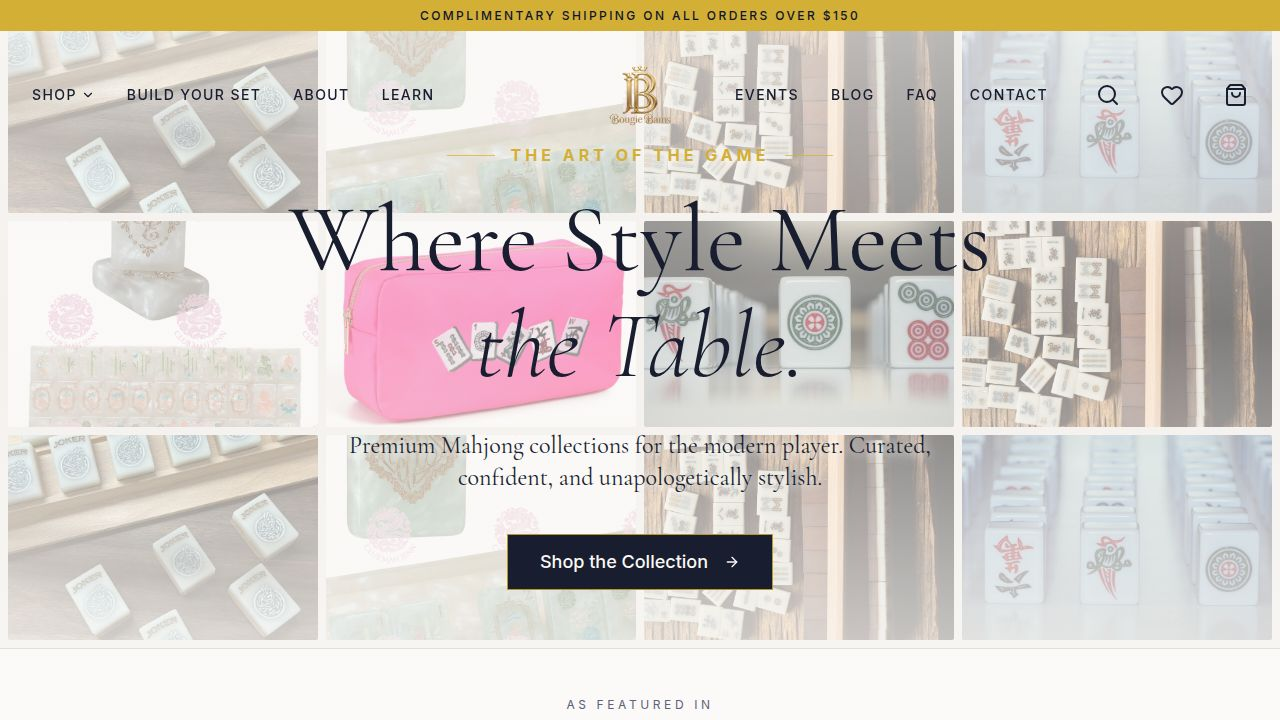
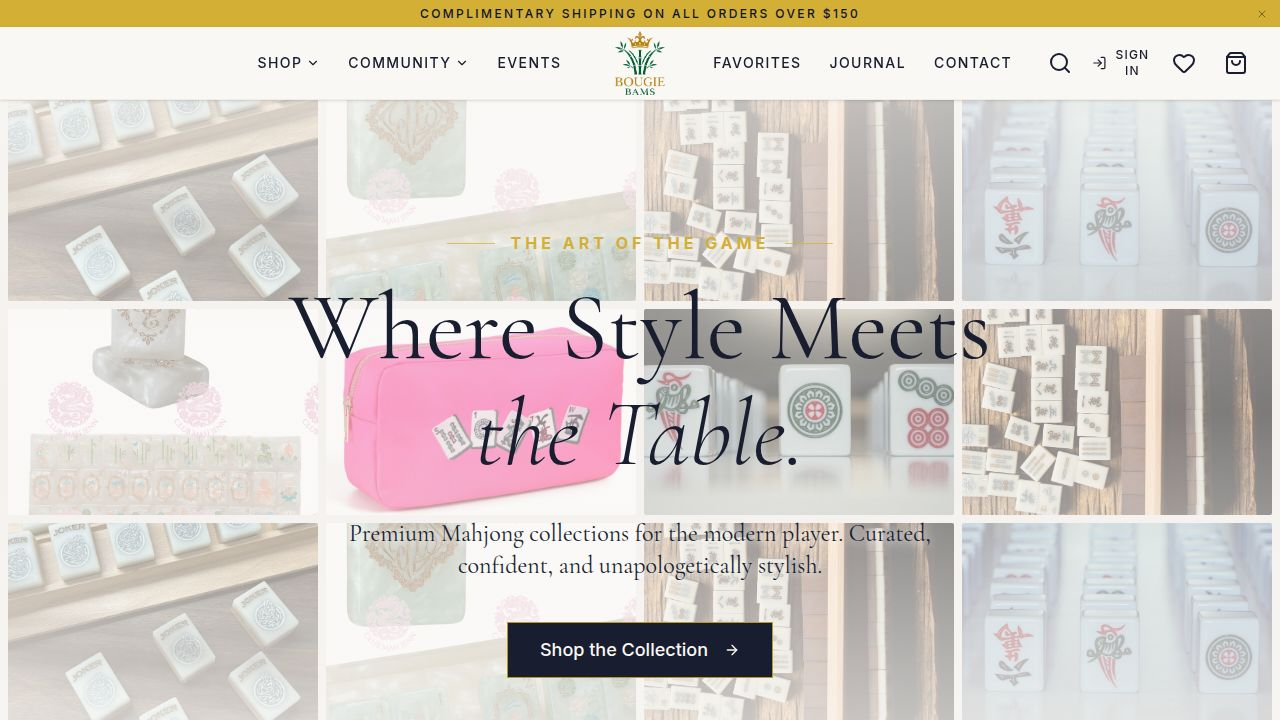
Task #5: Wire up email delivery for contact form and event registrations
## What was done
- Installed `resend` npm package in the api-server artifact
- Created `artifacts/api-server/src/lib/email.ts` — shared email service with two
  exported functions: `sendContactEmail` and `sendRegistrationConfirmationEmail`
- Updated `artifacts/api-server/src/routes/contact.ts` — POST /email/contact now
  calls `sendContactEmail` after a valid submission
- Updated `artifacts/api-server/src/routes/registrations.ts` — POST /registrations
  (free events, direct path) now calls `sendRegistrationConfirmationEmail` after
  the registration is confirmed
- Updated `artifacts/api-server/src/routes/stripe.ts` — two paths now send email:
  1. Free-event path in POST /registrations/checkout (priceCents === 0), immediately
     after status is set to "confirmed"
  2. Paid-event path in POST /webhooks/stripe when checkout.session.completed fires
     and pending → confirmed transition occurs (fetches event data to populate email)

## Email behavior
- Contact form → team inbox (CONTACT_EMAIL) with sender's reply-to, subject, message
- Event registration → registrant's email with event title, date, time, location, host
- If RESEND_API_KEY is not set, emails are skipped with a WARN log (graceful fallback)

## Secrets configured
- RESEND_API_KEY — Resend API key for email delivery
- FROM_EMAIL — sender address (must be on a Resend-verified domain)
- CONTACT_EMAIL — team inbox where contact form messages are delivered

## Notes
[…]

diff --git a/artifacts/api-server/src/lib/email.ts b/artifacts/api-server/src/lib/email.ts
@@ -1,0 +1,89 @@
+import { Resend } from "resend";
+import { logger } from "./logger";
+
+const RESEND_API_KEY = process.env.RESEND_API_KEY;
+const FROM_EMAIL = process.env.FROM_EMAIL ?? "[email redacted]";
+const CONTACT_EMAIL = process.env.CONTACT_EMAIL ?? "[email redacted]";
+
+function getClient(): Resend | null {
+  if (!RESEND_API_KEY) {
+    logger.warn("RESEND_API_KEY is not set — email delivery is disabled");
+    return null;
+  }
+  return new Resend(RESEND_API_KEY);
+}
+
+export async function sendContactEmail(opts: {
+  name: string;
+  email: string;
+  subject: string;
+  message: string;
+}): Promise<void> {
+  const client = getClient();
+  if (!client) return;
+
+  const { name, email, subject, message } = opts;
+
+  const { error } = await client.emails.send({
+    from: FROM_EMAIL,
+    to: [CONTACT_EMAIL],
+    replyTo: email,
+    subject: `[Contact] ${subject}`,
+    html: `
+      <h2>New contact message from ${name}</h2>
+      <p><strong>From:</strong> ${name} &lt;${email}&gt;</p>
+      <p><strong>Subject:</strong> ${subject}</p>
+      <hr />
+      <p style="white-space:pre-wrap">${message.replace(/&/g, "&amp;").replace(/</g, "&lt;").replace(/>/g, "&gt;")}</p>
+    `,
+    text: `New contact message from ${name} <${email}>\nSubject: ${subject}\n\n${message}`,
+  });
+
+  if (error) {
+    logger.error({ error }, "Failed to send contact email");
+  } else {
+    logger.info({ to: CONTACT_EMAIL, from: email }, "Contact email sent");
+  }
+}
+
+export async function sendRegistrationConfirmationEmail(opts: {
+  registrantName: string;
+  registrantEmail: string;
+  eventTitle: string;
+  eventDate: string;
+  eventTime: string;
+  eventLocation: string;
+  eventHost: string;
+}): Promise<void> {
+  const client = getClient();
+  if (!client) return;
+
+  const { registrantName, registrantEmail, eventTitle, eventDate, eventTime, eventLocation, eventHost } = opts;
+
+  const { error } = await client.emails.send({
+    from: FROM_EMAIL,
+    to: [registrantEmail],
+    replyTo: CONTACT_EMAIL,
+    subject: `You're registered for ${eventTitle}!`,
+    html: `
+      <h2>You're registered! 🎉</h2>
+      <p>Hi ${registrantName},</p>
+      <p>Your spot is confirmed for <strong>${eventTitle}</strong>.</p>
+      <table style="border-collapse:collapse;margin:16px 0">
+        <tr><td style="padding:4px 12px 4px 0;color:#666">Date</td><td style="padding:4px 0"><strong>${eventDate}</strong></td></tr>
+        <tr><td style="padding:4px 12px 4px 0;color:#666">Time</td><td style="padding:4px 0"><strong>${eventTime}</strong></td></tr>
+        <tr><td style="padding:4px 12px 4px 0;color:#666">Location</td><td style="padding:4px 0"><strong>${eventLocation}</strong></td></tr>
+        <tr><td style="padding:4px 12px 4px 0;color:#666">Host</td><td style="padding:4px 0"><strong>${eventHost}</strong></td></tr>
+      </table>
+      <p>If you have any questions, reply to this email or reach us at <a href="mailto:${CONTACT_EMAIL}">${CONTACT_EMAIL}</a>.</p>
+      <p>See you there!<br/>— The BougieBams Team</p>
+    `,
+    text: `Hi ${registrantName},\n\nYour spot is confirmed for ${eventTitle}.\n\nDate: ${eventDate}\nTime: ${eventTime}\nLocation: ${eventLocation}\nHost: ${eventHost}\n\nQuestions? Email us at ${CONTACT_EMAIL}.\n\nSee you there!\n— The BougieBams Team`,
+  });
+
+  if (error) {
+    logger.error({ error, to: registrantEmail }, "Failed to send registration confirmation email");
+  } else {
+    logger.info({ to: registrantEmail, event: eventTitle }, "Registration confirmation email sent");
+  }
+}

diff --git a/artifacts/api-server/src/routes/stripe.ts b/artifacts/api-server/src/routes/stripe.ts
@@ -4,6 +4,7 @@ import { sql, eq } from "drizzle-orm";
 import { db, eventsTable, registrationsTable } from "@workspace/db";
 import { logger } from "../lib/logger";
 import { requireAuth } from "../middleware/auth";
+import { sendRegistrationConfirmationEmail } from "../lib/email";
 
 const router: IRouter = Router();
 
@@ -114,6 +115,16 @@ router.post(
           .set({ spotsLeft: sql`GREATEST(0, ${eventsTable.spotsLeft} - 1)` })
           .where(eq(eventsTable.id, eventId));
 
+        await sendRegistrationConfirmationEmail({
+          registrantName: name,
+          registrantEmail: email,
+          eventTitle: event.title,
+          eventDate: event.date,
+          eventTime: event.time,
+          eventLocation: event.location,
+          eventHost: event.host,
+        });
+
         res.json({ url: `${origin}/events?registration=success` });
       }
     } catch (err) {
@@ -174,10 +185,28 @@ router.post(
             .set({ status: "confirmed", paymentSessionId: session.id })
             .where(eq(registrationsTable.id, registrationId));
 
+          const [event] = await db
+            .select()
+            .from(eventsTable)
+            .where(eq(eventsTable.id, reg.eventId))
+            .limit(1);
+
           await db
             .update(eventsTable)
             .set({ spotsLeft: sql`GREATEST(0, ${eventsTable.spotsLeft} - 1)` })
             .where(eq(eventsTable.id, reg.eventId));
+
+          if (event) {
+            await sendRegistrationConfirmationEmail({
+              registrantName: reg.name,
+              registrantEmail: reg.email,
+              eventTitle: event.title,
+              eventDate: event.date,
+              eventTime: event.time,
+              eventLocation: event.location,
+              eventHost: event.host,
+            });
+          }
 
           logger.info(
             { registrationId, sessionId: session.id },

diff --git a/artifacts/api-server/src/routes/registrations.ts b/artifacts/api-server/src/routes/registrations.ts
@@ -3,6 +3,7 @@ import { eq } from "drizzle-orm";
 import { db, eventsTable, registrationsTable } from "@workspace/db";
 import { CreateRegistrationBody } from "@workspace/api-zod";
 import { requireAuth } from "../middleware/auth";
+import { sendRegistrationConfirmationEmail } from "../lib/email";
 
 const router: IRouter = Router();
 
@@ -65,6 +66,16 @@ router.post("/registrations", requireAuth, async (req, res): Promise<void> => {
     .update(eventsTable)
     .set({ spotsLeft: event.spotsLeft - 1 })
     .where(eq(eventsTable.id, eventId));
+
+  await sendRegistrationConfirmationEmail({
+    registrantName: name,
+    registrantEmail: email,
+    eventTitle: event.title,
+    eventDate: event.date,
+    eventTime: event.time,
+    eventLocation: event.location,
+    eventHost: event.host,
+  });
 
   res.status(201).json({ registration: toRegResponse(reg) });
 });

diff --git a/artifacts/api-server/src/routes/contact.ts b/artifacts/api-server/src/routes/contact.ts
@@ -1,6 +1,7 @@
 import { Router, type IRouter } from "express";
 import { SendContactEmailBody } from "@workspace/api-zod";
 import { logger } from "../lib/logger";
+import { sendContactEmail } from "../lib/email";
 
 const router: IRouter = Router();
 
@@ -14,6 +15,8 @@ router.post("/email/contact", async (req, res): Promise<void> => {
   const { name, email, subject, message } = parsed.data;
 
   logger.info({ name, email, subject }, "Contact form submission received");
+
+  await sendContactEmail({ name, email, subject, message });
 
   res.json({ message: "Message received. We will get back to you shortly." });
 });